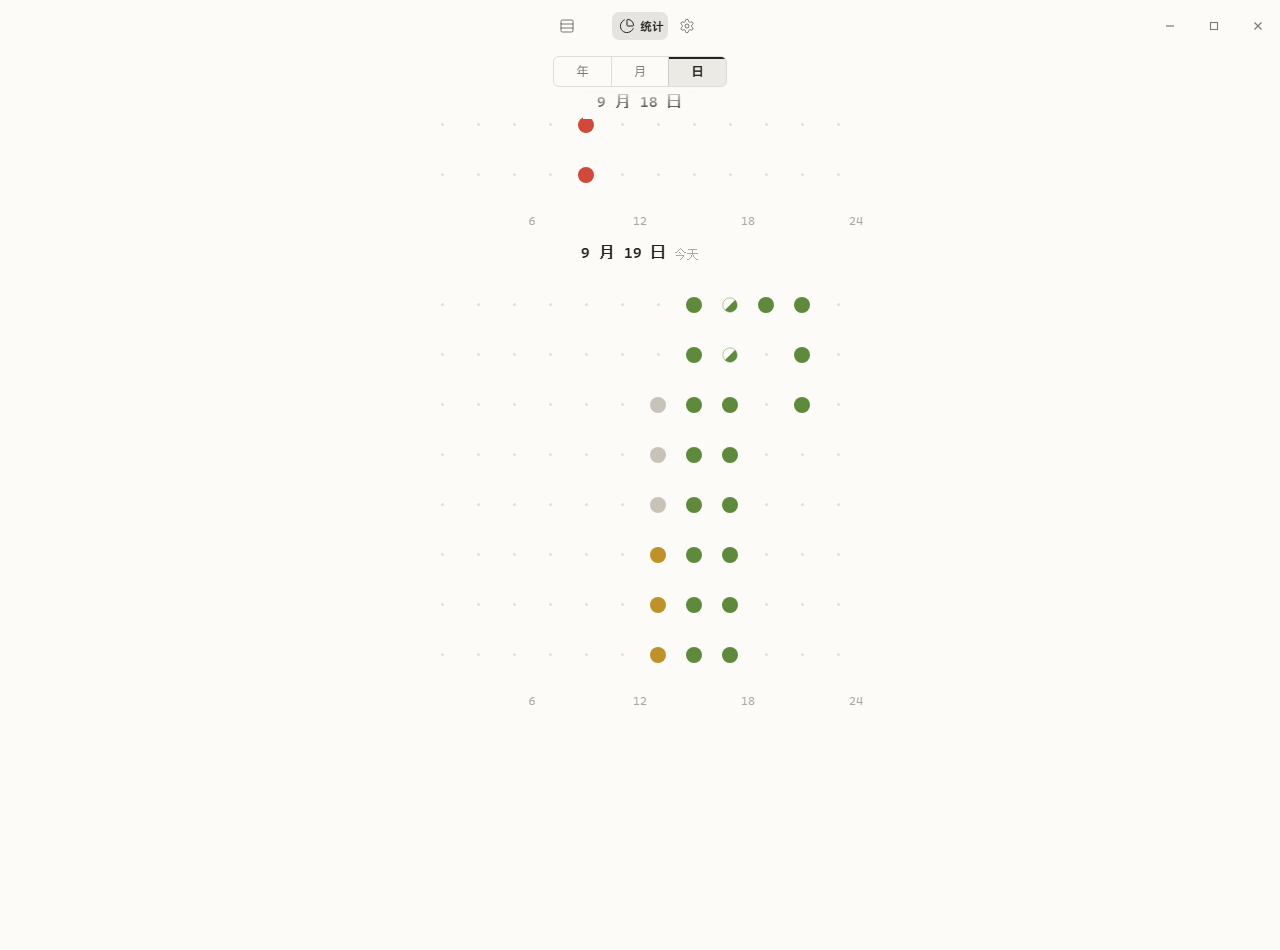
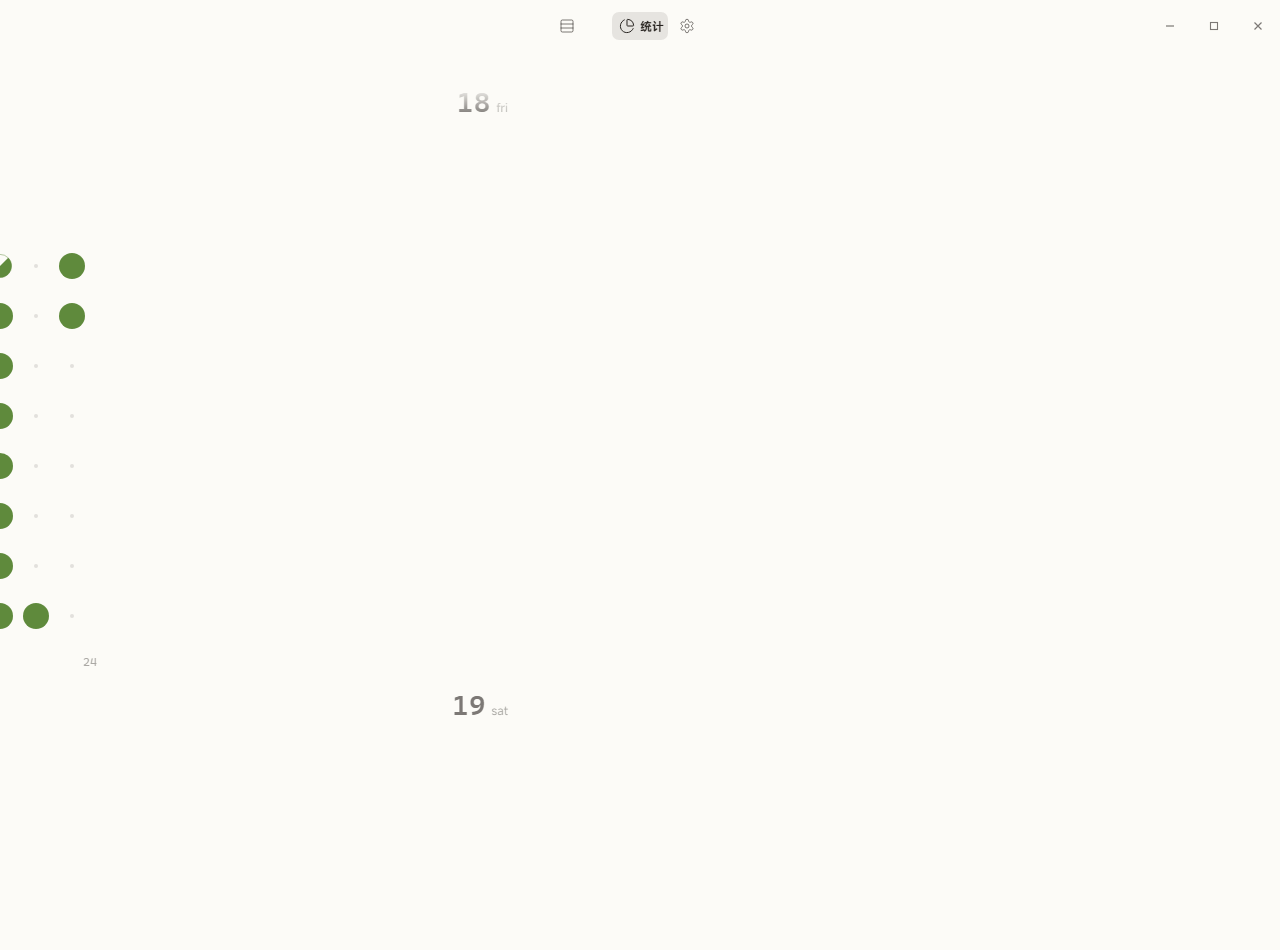
修复：日视角悬停浮窗回归 + 日期标改版 + 钻取抖动

diff --git a/src/pages/stats/DayGridView.tsx b/src/pages/stats/DayGridView.tsx
@@ -1,4 +1,4 @@
-import { useEffect, useMemo, useRef, useState } from "react";
+import { useEffect, useLayoutEffect, useMemo, useRef, useState } from "react";
 import { data, type GridCell } from "../../api/data";
 import { markHex, useBoard } from "../../store/board";
 import { fmtClock, fmtDur } from "../../util";
@@ -18,16 +18,23 @@ export function DayGridView({
   day,
   onAnchor,
   onBackToMonth,
+  enter = false,
+  enterDir = 1,
 }: {
   day: string;
   onAnchor: (day: string) => void;
   onBackToMonth: () => void;
+  enter?: boolean;      // 钻取进场（先隐藏态定位锚日，再播升起动画）
+  enterDir?: 1 | -1;
 }) {
   const today = dayStr(new Date());
   const [firstDay, setFirstDay] = useState<string | null>(null);
   const [hover, setHover] = useState<{ cell: GridCell; x: number; y: number } | null>(null);
   const scrollRef = useRef<HTMLDivElement>(null);
   const idleTimer = useRef<ReturnType<typeof setTimeout> | null>(null);
+  const lastHeight = useRef(0);
+  const lastStart = useRef<number | null>(null);
+  const [ready, setReady] = useState(!enter); // enter 时先隐藏定位，再播动画
 
   useEffect(() => {
     void data.qFirstDay().then((d) => setFirstDay(d ?? today));
@@ -55,25 +62,36 @@ export function DayGridView({
   }, [allDays, anchorIdx, startIdx]);
   const days = startIdx === null ? [] : allDays.slice(startIdx);
 
-  // 进场滚到锚点日（仅一次）
-  useEffect(() => {
+  // 进场滚到锚点日（仅一次）：进场动画开始之前同步完成定位，杜绝中途二次定位
+  useLayoutEffect(() => {
     if (!days.length || startIdx === null) return;
-    const el = scrollRef.current?.querySelector(`[data-day="${day}"]`);
-    el?.scrollIntoView({ block: "start" });
+    const root = scrollRef.current;
+    const el = root?.querySelector(`[data-day="${day}"]`);
+    if (root && el) {
+      root.scrollTop = (el as HTMLElement).offsetTop - root.offsetTop;
+    }
+    if (enter && !ready) requestAnimationFrame(() => setReady(true));
     // eslint-disable-next-line react-hooks/exhaustive-deps
   }, [startIdx !== null]);
 
-  const onScroll = () => {
-    // 滚近顶部 → prepend 更早的天，scrollTop 补偿锚定（杜绝跳动）
+  // prepend 后同步补偿 scrollTop（useLayoutEffect：绘制前完成，零跳动）
+  useLayoutEffect(() => {
     const root = scrollRef.current;
-    if (root && root.scrollTop < 200 && startIdx !== null && startIdx > 0) {
-      const before = root.scrollHeight;
-      const newStart = Math.max(0, startIdx - 10);
-      setStartIdx(newStart);
-      requestAnimationFrame(() => {
-        const delta = root.scrollHeight - before;
-        if (delta > 0) root.scrollTop += delta;
-      });
+    if (!root || startIdx === null) return;
+    if (lastStart.current !== null && startIdx < lastStart.current) {
+      const delta = root.scrollHeight - lastHeight.current;
+      if (delta > 0) root.scrollTop += delta;
+    }
+    lastStart.current = startIdx;
+  }, [startIdx]);
+
+  const onScroll = () => {
+    const root = scrollRef.current;
+    if (!root) return;
+    lastHeight.current = root.scrollHeight;
+    // 滚近顶部 → prepend 更早的天
+    if (root.scrollTop < 200 && startIdx !== null && startIdx > 0) {
+      setStartIdx(Math.max(0, startIdx - 10));
     }
     if (idleTimer.current) clearTimeout(idleTimer.current);
     idleTimer.current = setTimeout(() => {
@@ -99,7 +117,13 @@ export function DayGridView({
   if (!firstDay) return null;
 
   return (
-    <div className="daygrid-scroll" data-testid="daygrid-scroll" ref={scrollRef} onScroll={onScroll}>
+    <div
+      className={`daygrid-scroll${enter && ready ? (enterDir === 1 ? " drill-in-below" : " drill-in-above") : ""}`}
+      style={enter && !ready ? { opacity: 0 } : undefined}
+      data-testid="daygrid-scroll"
+      ref={scrollRef}
+      onScroll={onScroll}
+    >
       {days.map((d) => (
         <DayUnit
           key={d}
@@ -159,22 +183,23 @@ function CellMark({
       />
     );
   }
-  // 45° 斜半圆：右上-左下对角线切半；段起/中段=色在右下，段止=色在左上
+  // 45° 斜半圆 26px：对角线切半；段起/中段=色在右下，段止=色在左上
+  const tri = cell.is_end ? "0 26 L26 0 L0 0" : "0 26 L26 0 L26 26";
   return (
     <svg
       className="dg-half"
       data-testid="dg-dot"
-      width="16"
-      height="16"
-      viewBox="0 0 16 16"
+      width="26"
+      height="26"
+      viewBox="0 0 26 26"
       onMouseEnter={enter}
       onMouseLeave={() => onHover(null)}
     >
-      <circle cx="8" cy="8" r="7.2" fill="none" stroke={color} strokeWidth="1" opacity="0.45" />
-      <circle cx="8" cy="8" r="7.2" fill={color} clipPath={`url(#halfclip-${cell.cell})`} />
+      <circle cx="13" cy="13" r="11.6" fill="none" stroke={color} strokeWidth="1" opacity="0.45" />
+      <circle cx="13" cy="13" r="11.6" fill={color} clipPath={`url(#halfclip-${cell.cell})`} />
       <defs>
         <clipPath id={`halfclip-${cell.cell}`}>
-          <path d={`M ${cell.is_end ? "0 16 L16 0 L0 0" : "0 16 L16 0 L16 16"} Z`} />
+          <path d={`M ${tri} Z`} />
         </clipPath>
       </defs>
     </svg>
@@ -217,18 +242,38 @@ function DayUnit({
 
   const isFuture = day > today;
   const hasData = cells?.some((c) => c.owner_process_id !== null) ?? false;
-  const label = `${Number(day.slice(5, 7))} 月 ${Number(day.slice(8))} 日`;
+  const dObj = new Date(`${day}T00:00:00`);
+  const wk = ["sun", "mon", "tue", "wed", "thu", "fri", "sat"][dObj.getDay()];
+  const [miniVisible, setMiniVisible] = useState(false);
+  const bigRef = useRef<HTMLButtonElement>(null);
+
+  // 极简吸顶小日期签：大日期标滚出视口时出现
+  useEffect(() => {
+    const el = bigRef.current;
+    if (!el) return;
+    const obs = new IntersectionObserver(
+      (entries) => {
+        // 仅当大日期标从视口顶沿滚出（向下滚过）时出吸顶小签；单元在下方不算
+        const e = entries[0];
+        const rootTop = scrollRoot.current?.getBoundingClientRect().top ?? 0;
+        setMiniVisible(!e.isIntersecting && e.boundingClientRect.top < rootTop);
+      },
+      { root: scrollRoot.current },
+    );
+    obs.observe(el);
+    return () => obs.disconnect();
+  }, [scrollRoot]);
 
   return (
     <div className="day-unit" data-day={day} ref={ref} data-testid="day-unit">
       <button
-        className="day-unit-head num"
+        className={`day-mini-head num${miniVisible ? " on" : ""}`}
         data-testid="day-unit-head"
         onClick={onBackToMonth}
         title="回到月视角"
       >
-        {label}
-        {day === today && <span className="day-today-tag">今天</span>}
+        {Number(day.slice(8))} {wk}
+        {day === today ? " · 今天" : ""}
       </button>
       {isFuture ? (
         <div className="daygrid-empty">尚无记录</div>
@@ -260,6 +305,16 @@ function DayUnit({
           </div>
         </>
       )}
+      <button
+        className="day-big-label"
+        data-testid="day-big-label"
+        ref={bigRef}
+        onClick={onBackToMonth}
+        title="回到月视角"
+      >
+        <span className="num day-big-num">{Number(day.slice(8))}</span>
+        <span className="day-big-wk">{wk}</span>
+      </button>
     </div>
   );
 }

diff --git a/src/styles/app.css b/src/styles/app.css
@@ -1307,9 +1307,9 @@ body:has(.overlay-card) {
   grid-auto-columns: 36px;
 }
 .dg-cell { display: grid; place-items: center; }
-.dg-dot { width: 16px; height: 16px; border-radius: 50%; display: block; cursor: default; }
+.dg-dot { width: 26px; height: 26px; border-radius: 50%; display: block; cursor: default; }
 .dg-empty-dot {
-  width: 3px; height: 3px; border-radius: 50%;
+  width: 4px; height: 4px; border-radius: 50%;
   background: var(--ink-ghost); opacity: 0.55; display: block;
 }
 .daygrid-ticks {
@@ -1565,33 +1565,44 @@ body:has(.overlay-card) {
   -webkit-mask-image: linear-gradient(to bottom, transparent, black 28px, black calc(100% - 28px), transparent);
 }
 .day-unit {
-  scroll-snap-align: start;
-  scroll-snap-stop: always;
-  min-height: 480px;
+  min-height: 500px;
   display: flex;
   flex-direction: column;
   align-items: center;
   gap: 10px;
   padding-top: 8px;
+  margin-bottom: 72px; /* 日间隔加大 */
+  position: relative;
 }
-.day-unit-head {
+/* 极简吸顶小日期签：大日期标滚出顶沿时出现 */
+.day-mini-head {
   position: sticky;
-  top: 0;
+  top: 6px;
   z-index: 5;
-  background: var(--paper);
-  padding: 4px 14px;
-  font-size: var(--fs-body);
-  font-weight: 600;
-  cursor: pointer;
-  display: flex;
-  align-items: baseline;
-  gap: 8px;
-}
-.day-today-tag {
+  background: transparent;
+  padding: 2px 10px;
   font-size: var(--fs-micro);
   color: var(--ink-faint);
-  font-weight: 400;
+  cursor: pointer;
+  opacity: 0;
+  pointer-events: none;
+  transition: opacity var(--dur-fast);
+  align-self: center;
 }
+.day-mini-head.on { opacity: 1; pointer-events: auto; }
+/* 大日期标：单元右下角 "23 mon" */
+.day-big-label {
+  align-self: flex-end;
+  display: flex;
+  align-items: baseline;
+  gap: 6px;
+  padding: 4px 6px;
+  cursor: pointer;
+  color: var(--ink-soft);
+}
+.day-big-label:hover { color: var(--ink); }
+.day-big-num { font-size: 28px; font-weight: 600; letter-spacing: 0.01em; }
+.day-big-wk { font-size: var(--fs-micro); color: var(--ink-faint); }
 
 /* v1.2 统一栈：断点条与条目删除 */
 .detail-step.note { color: var(--ink-soft); font-style: normal; }

diff --git a/src/pages/stats/StatsPage.tsx b/src/pages/stats/StatsPage.tsx
@@ -59,7 +59,13 @@ export function StatsPage() {
     if (v === "day") {
       return (
         <div className="view-stretch" style={{ display: "flex", flexDirection: "column", flex: 1, minHeight: 0 }}>
-          <DayGridView day={anchor} onAnchor={setAnchor} onBackToMonth={() => drillTo("month")} />
+          <DayGridView
+            day={anchor}
+            onAnchor={setAnchor}
+            onBackToMonth={() => drillTo("month")}
+            enter={outgoing !== null}
+            enterDir={outgoing?.dir ?? 1}
+          />
         </div>
       );
     }
@@ -104,7 +110,7 @@ export function StatsPage() {
           </div>
         )}
         <div
-          className={`drill-layer current ${outgoing ? (outgoing.dir === 1 ? "drill-in-below" : "drill-in-above") : ""}`}
+          className={`drill-layer current ${outgoing && view !== "day" ? (outgoing.dir === 1 ? "drill-in-below" : "drill-in-above") : ""}`}
           data-testid="drill-current"
         >
           {renderView(view)}

diff --git a/docs/02-统计页.md b/docs/02-统计页.md
@@ -17,7 +17,7 @@
    - **未做**：当天预定过计划但没动的
    - **计划编辑**：为该天制定 / 编辑 / 删除 / 直接完成计划，与 Tab1 左稿库同源
    - 挂起成本：每件挂了多久才被捞回 / 仍未捞回
-4. **日视图（2026-09-18 定，参考 docs/gika-day.png）**：**12 列 × 8 行 = 96 格日网格**，每格 15 分钟、每列 8 格 = 2 小时；横向刻标 = 单点时刻 6 / 12 / 18 / 24（v1.2.2 用户改回：废止时间段方案）——6 对第 2|3 列分界（6:00）、12 对第 5|6 列、18 对第 8|9 列、24 对网格最右端；只保留下行（v1.2.2 用户定：上行冗余）；按列阅读（列内自上而下、列间自左向右，推定自 gika，原型对图校验）；有记录的时段沿阅读方向填**色标色圆圈串**（一段进程从起点格连续填充，无色 = 灰）；**悬停圆圈 → 进程浮窗**（进程名 + 起止 + 时长 + 断点）；一格内多进程冲突时归属占时最多者；空隙 = 留白（空闲/挂起空窗，本身是数据）；未来日期显示"尚无记录"；「等待 AI」分段 v1 实心、空心后置。v1.2 填充规则：格内主导占用 <70% → 45° 斜半圆（段起点格=色在右下、段止点格=色在左上，参考图实测），占比 <15% 的占用者不显示，两阈值入 token。整格网格约 430px 高，桌面单列一屏放下——回答"这一天的时间是怎么过去的"；每天单元=日期头+96 格网格（不含清单——清单留在月视角当天视图）
+4. **日视图（2026-09-18 定，参考 docs/gika-day.png）**：**12 列 × 8 行 = 96 格日网格**，每格 15 分钟、每列 8 格 = 2 小时；横向刻标 = 单点时刻 6 / 12 / 18 / 24（v1.2.2 用户改回：废止时间段方案）——6 对第 2|3 列分界（6:00）、12 对第 5|6 列、18 对第 8|9 列、24 对网格最右端；只保留下行（v1.2.2 用户定：上行冗余）；按列阅读（列内自上而下、列间自左向右，推定自 gika，原型对图校验）；有记录的时段沿阅读方向填**色标色圆圈串**（一段进程从起点格连续填充，无色 = 灰）；**悬停圆圈 → 进程浮窗**（进程名 + 起止 + 时长 + 断点）；一格内多进程冲突时归属占时最多者；空隙 = 留白（空闲/挂起空窗，本身是数据）；未来日期显示"尚无记录"；「等待 AI」分段 v1 实心、空心后置。v1.2 填充规则：格内主导占用 <70% → 45° 斜半圆（段起点格=色在右下、段止点格=色在左上，参考图实测），占比 <15% 的占用者不显示，两阈值入 token。整格网格约 430px 高，桌面单列一屏放下——回答"这一天的时间是怎么过去的"；每天单元=吸顶小日期签（滚过出现，点击回月）+96 格网格+右下大日期标（"23 mon"，数字 28px 半粗、星期 12px 小写，点击回月）；单元间距 72px；圆 26px、幽灵点 4px（v1.2.2）
 5. **年视图（2026-09-18 定）**：12 月环网格（每格一枚月环，点月环下钻月视角）；**纵向滚动**、只显示有记录的年份范围；12 列堆叠条做切换备选
 
 ## 环状图配色（2026-09-18 定）

diff --git a/docs/deviation.md b/docs/deviation.md
@@ -167,3 +167,6 @@ B1 我归因为"拖拽区盖导航"——源码核查排除：Tauri 2.11.5 drag.
 
 ### D40 · v1.3 换页动效要点
 主三页横向轨道：.track 300% 宽 flex，translateX(-i×33.33%)，240ms ease-page；三页常驻挂载（滚动位置/内部状态保留）；离屏页 pointer-events:none + visibility:hidden 延迟至滑动结束（transition-delay）。统计页视角切换=纵向钻取成对进出（下钻新页升/旧页让，反向同），旧页短寿命双渲染 240ms 后卸载（不常驻）。淡化只剩浮层/提示；page-in 退役。tokens 收敛 --dur-page/--ease-page。
+
+### D41 · 日视角改版与悬停浮窗核查
+悬停浮窗经 mock 与真实 exe 双向复核**未断**（字段 title/seg_start/seg_end 均随格返回），补 verify-m3 内容断言锁死。日期标移单元右下（"23 mon"），吸顶 12px 小签仅在大标滚出顶沿时出现（IO 判定 boundingClientRect.top < 容器顶）。钻取零漂移：进场动画播放前先同步 scrollTo 锚日（useLayoutEffect），动画期间锚日 y 恒定（实测 t60ms=t280ms=113）。
